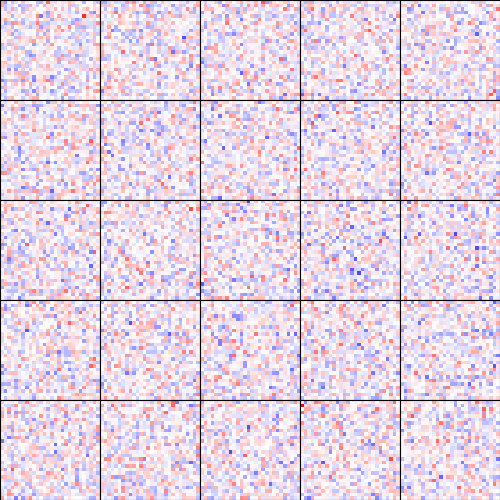
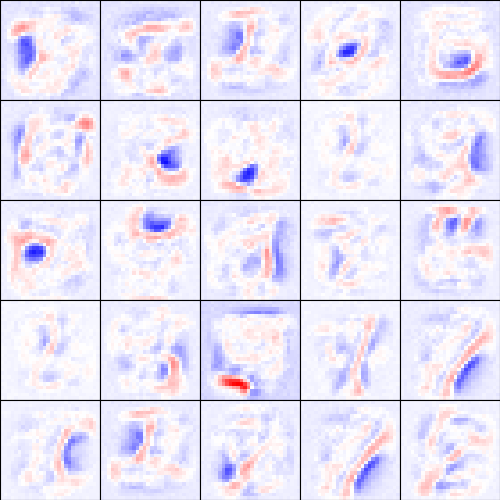
rbm to date

diff --git a/lab4.2/rbm.py b/lab4.2/rbm.py
@@ -78,27 +78,61 @@ class RestrictedBoltzmannMachine():
         print ("learning CD1")
         
         n_samples = visible_trainset.shape[0]
+        n_batch = int(n_samples/self.batch_size)
+        # print(n_batch)
 
+        # [DONE TASK 4.1] run k=1 alternating Gibbs sampling : v_0 -> h_0 ->  v_1 -> h_1.
+        # you may need to use the inference functions 'get_h_given_v' and 'get_v_given_h'.
+        # note that inference methods returns both probabilities and activations (samples from probablities) and you may have to decide when to use what.
+
+        # print(self.weight_vh.shape)
+        loss_vec = []
+        it_vec = []
         for it in range(n_iterations):
+            reconstructed_input = np.zeros(visible_trainset.shape)
+            for batch in range(n_batch):
+                visible_minibatch = visible_trainset[batch *
+                                                     self.batch_size:self.batch_size+batch*self.batch_size][:]
 
-	    # [TODO TASK 4.1] run k=1 alternating Gibbs sampling : v_0 -> h_0 ->  v_1 -> h_1.
-            # you may need to use the inference functions 'get_h_given_v' and 'get_v_given_h'.
-            # note that inference methods returns both probabilities and activations (samples from probablities) and you may have to decide when to use what.
+                # Get v0
+                on_prob = sigmoid(self.bias_v)
 
-            # [TODO TASK 4.1] update the parameters using function 'update_params'
-            
+                v0 = (on_prob, visible_minibatch)
+                # plt.imshow(v0[1][0][:].reshape(28, 28))
+                # plt.show()
+
+                # print(v0.shape)
+
+                h0 = self.get_h_given_v(v0[1])
+                # print(h0[1].shape)
+                vk = self.get_v_given_h(h0[1])
+
+                hk = self.get_h_given_v(vk[1])
+
+                reconstructed_input[batch*self.batch_size:self.batch_size +
+                                    batch*self.batch_size][:] = vk[1]
+                # print(hk_activation.shape)
+
+            # [DONE TASK 4.1] update the parameters using function 'update_params'
+
+                self.update_params(v0, h0, vk, hk)
+                # if batch % self.figure_period == 0:
+
             # visualize once in a while when visible layer is input images
-            
+
             if it % self.rf["period"] == 0 and self.is_bottom:
-                
-                viz_rf(weights=self.weight_vh[:,self.rf["ids"]].reshape((self.image_size[0],self.image_size[1],-1)), it=it, grid=self.rf["grid"])
+
+                viz_rf(weights=self.weight_vh[:, self.rf["ids"]].reshape(
+                    (self.image_size[0], self.image_size[1], -1)), it=it, grid=self.rf["grid"])
 
             # print progress
-            
-            if it % self.print_period == 0 :
-
-                print ("iteration=%7d recon_loss=%4.4f"%(it, np.linalg.norm(visible_trainset - visible_trainset)))
-        
+            loss = np.linalg.norm(
+                visible_trainset - reconstructed_input)/visible_trainset.shape[0]
+            loss_vec.append(loss)
+            it_vec.append(it)
+            if it % self.print_period == 0:
+                print ("iteration=%3d/%3d \t recon_loss=%4.4f" %
+                       (it+1, n_iterations, loss))
         return
     
 
@@ -116,15 +150,17 @@ class RestrictedBoltzmannMachine():
            all args have shape (size of mini-batch, size of respective layer)
         """
 
-        # [TODO TASK 4.1] get the gradients from the arguments (replace the 0s below) and update the weight and bias parameters
-        
-        self.delta_bias_v += 0
-        self.delta_weight_vh += 0
-        self.delta_bias_h += 0
-        
+       # [DONE TASK 4.1] get the gradients from the arguments (replace the 0s below) and update the weight and bias parameters
+        self.delta_bias_v = np.sum(self.learning_rate*(v_0[1]-v_k[1]), axis=0)
+        self.delta_weight_vh = self.learning_rate * \
+            (np.dot(np.transpose(v_0[1]), h_0[0]) -
+             np.dot(np.transpose(v_k[1]), h_k[0]))
+        self.delta_bias_h = np.sum(self.learning_rate*(h_0[0]-h_k[0]), axis=0)
+
         self.bias_v += self.delta_bias_v
         self.weight_vh += self.delta_weight_vh
         self.bias_h += self.delta_bias_h
+
         
         return
 
@@ -143,11 +179,12 @@ class RestrictedBoltzmannMachine():
         
         assert self.weight_vh is not None
 
-        n_samples = visible_minibatch.shape[0]
+        on_prob = sigmoid(
+            self.bias_h + np.dot(visible_minibatch, self.weight_vh))
+        activations = sample_binary(on_prob)
 
-        # [TODO TASK 4.1] compute probabilities and activations (samples from probabilities) of hidden layer (replace the zeros below) 
-        
-        return np.zeros((n_samples,self.ndim_hidden)), np.zeros((n_samples,self.ndim_hidden))
+        return (on_prob, activations)
+
 
 
     def get_v_given_h(self,hidden_minibatch):
@@ -183,11 +220,11 @@ class RestrictedBoltzmannMachine():
             
         else:
                         
-            # [TODO TASK 4.1] compute probabilities and activations (samples from probabilities) of visible layer (replace the pass and zeros below)             
+            on_prob = sigmoid(
+                self.bias_v + np.dot(hidden_minibatch, np.transpose(self.weight_vh)))
+            activations = sample_binary(on_prob)
 
-            pass
-        
-        return np.zeros((n_samples,self.ndim_visible)), np.zeros((n_samples,self.ndim_visible))
+        return (on_prob, activations)
 
 
     

diff --git a/lab4.2/run.py b/lab4.2/run.py
@@ -9,18 +9,18 @@ if __name__ == "__main__":
 
     ''' restricted boltzmann machine '''
     
-    print ("\nStarting a Restricted Boltzmann Machine..")
+    # print ("\nStarting a Restricted Boltzmann Machine..")
 
-    rbm = RestrictedBoltzmannMachine(ndim_visible=image_size[0]*image_size[1],
-                                     ndim_hidden=200,
-                                     is_bottom=True,
-                                     image_size=image_size,
-                                     is_top=False,
-                                     n_labels=10,
-                                     batch_size=10
-    )
+    # rbm = RestrictedBoltzmannMachine(ndim_visible=image_size[0]*image_size[1],
+    #                                  ndim_hidden=200,
+    #                                  is_bottom=True,
+    #                                  image_size=image_size,
+    #                                  is_top=False,
+    #                                  n_labels=10,
+    #                                  batch_size=10
+    # )
     
-    rbm.cd1(visible_trainset=train_imgs, n_iterations=10000)
+    # rbm.cd1(visible_trainset=train_imgs, n_iterations=1)
     
     ''' deep- belief net '''
 
